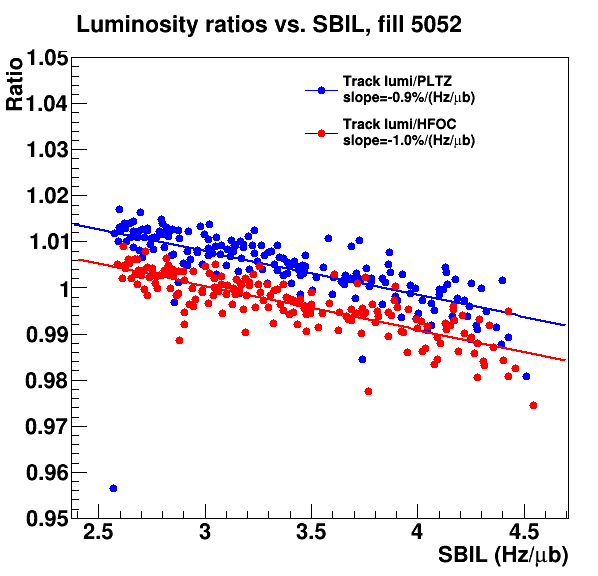
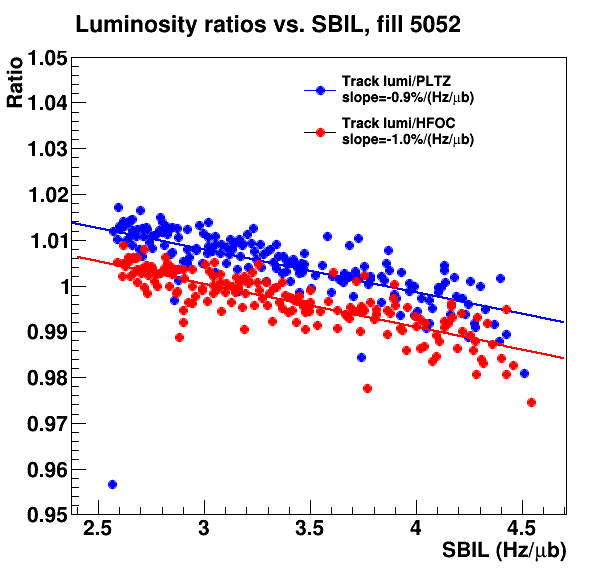
consistent colors in time and ratio plots

diff --git a/TrackLumi2020/PlotTrackLumiFill.C b/TrackLumi2020/PlotTrackLumiFill.C
@@ -271,7 +271,7 @@ void PlotTrackLumiFill(int fillNumber_i) {
   g_lhf->GetYaxis()->SetTitle("Luminosity (Hz/nb)");
   g_lhf->GetYaxis()->SetTitleOffset(1.2);
   g_lhf->SetMarkerStyle(kFullCircle);
-  g_lhf->SetMarkerColor(kBlue);
+  g_lhf->SetMarkerColor(kRed);
   g_lhf->SetMarkerSize(1);
   g_lhf->GetXaxis()->SetTimeDisplay(1);
   g_lhf->GetXaxis()->SetTimeFormat("%H:%M");
@@ -279,7 +279,7 @@ void PlotTrackLumiFill(int fillNumber_i) {
 
   g_lpz->Draw("P same");
   g_lpz->SetMarkerStyle(kFullCircle);
-  g_lpz->SetMarkerColor(kRed);
+  g_lpz->SetMarkerColor(kBlue);
   g_lpz->SetMarkerSize(1);
 
   g_ltr->Draw("P same");
